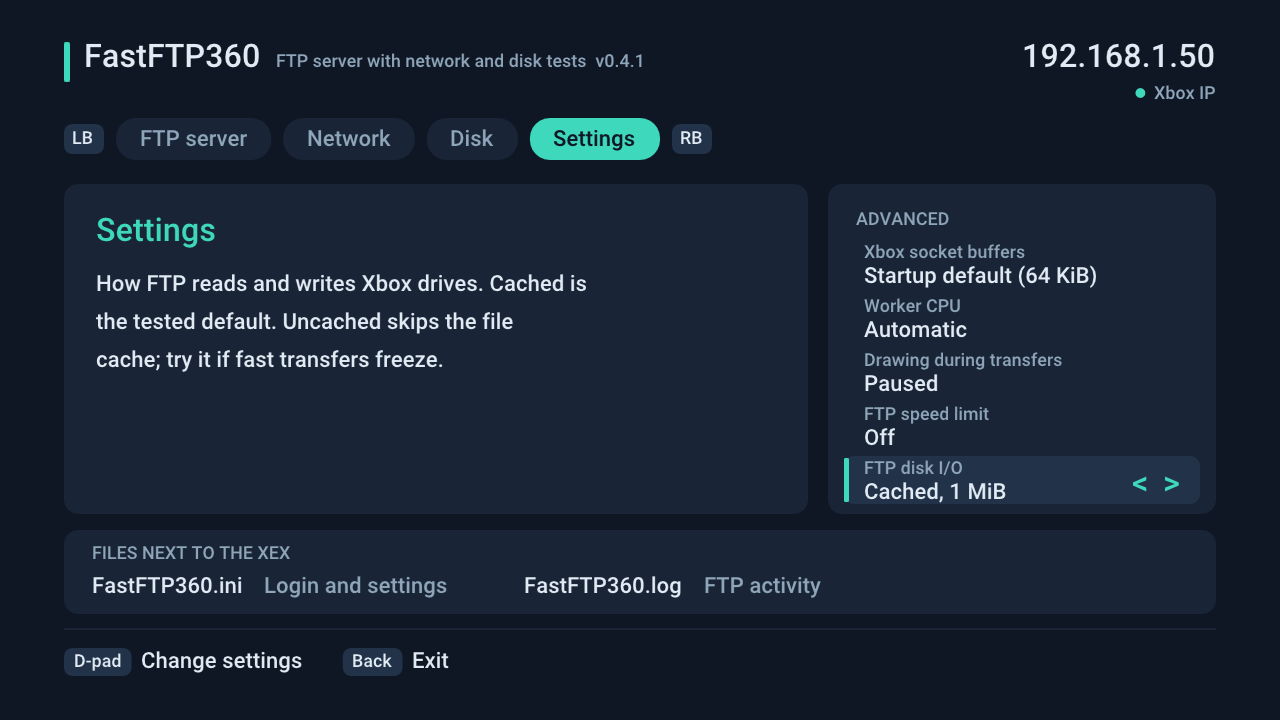
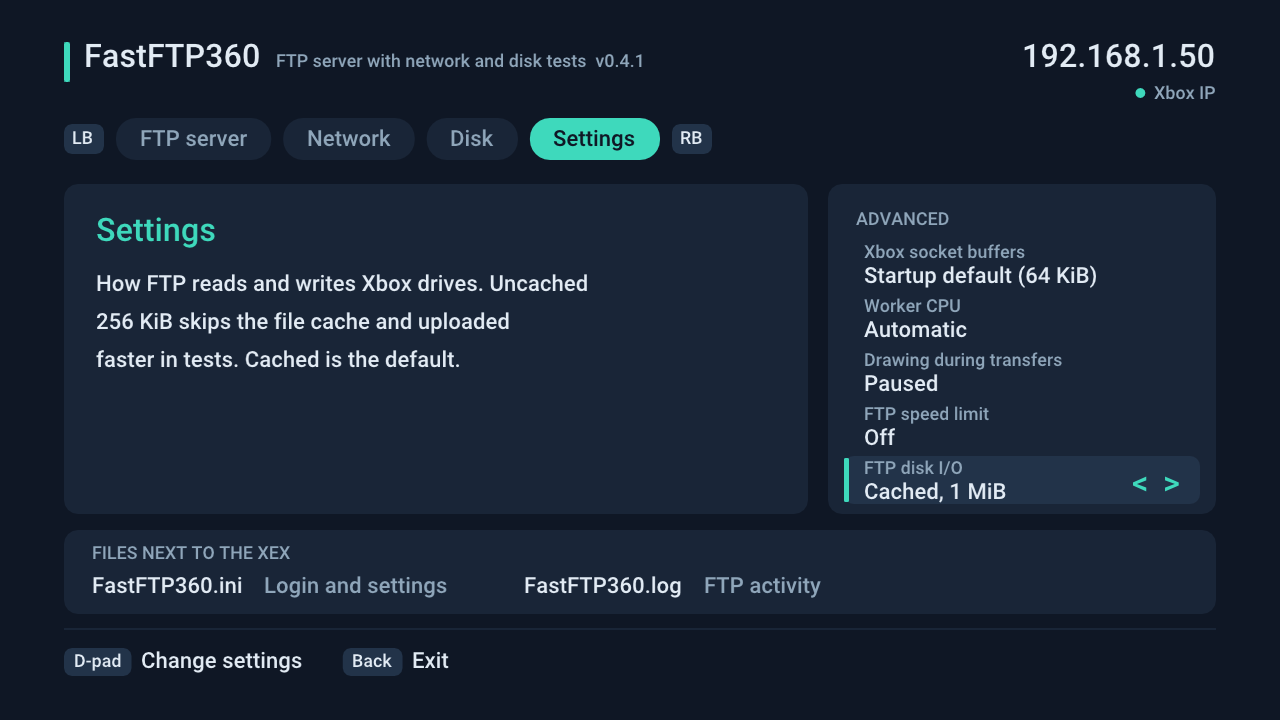
Speed limit for downloads only
On the stock 20 GB console every full-speed download froze while full-speed
uploads went through, so the FTP speed limit gets Downloads 12 and 16 MiB/s:
only RETR is paced, uploads keep full speed. ServeFtp takes downloadsOnly;
FastFTP360.ini stores speed=downloads-12|downloads-16 (old numeric values
still load). Two new checks in tests/ftp.py (58 in all). The changelog,
README and disk I/O help record the console results.

Claude-Session: https://claude.ai/code/session_01GgHdzzbekHu92nQPqVcQGn

Changed region(s): [[0.0625, 0.4278, 0.4062, 0.4583], [0.0625, 0.4889, 0.375, 0.5194], [0.375, 0.3667, 0.4688, 0.3972]]

diff --git a/shared/ftp.cpp b/shared/ftp.cpp
@@ -85,7 +85,7 @@ void EndPump(Pump& p) {
 }
 
 struct Shared {
-    const FtpRoot* roots; int rootCount; DWORD address; int socketBuffer,speedLimit,diskBlock;
+    const FtpRoot* roots; int rootCount; DWORD address; int socketBuffer,speedLimit,diskBlock; bool downloadsOnly;
     const char* user; const char* password;
     const FtpObserver* observer;
     volatile LONG active,finished;
@@ -139,16 +139,18 @@ private:
     // (the Xbox pauses drawing) before the first byte moves.
     void Starting(const char* operation,const char* name,const char* path) {
         const char* kind=operation[0]=='S' ? "Upload" : "Download";
-        if(shared_.speedLimit) Log("%s %s started, limited to %d MiB/s",kind,path,shared_.speedLimit);
+        if(Limit(operation)) Log("%s %s started, limited to %d MiB/s",kind,path,Limit(operation));
         else Log("%s %s started",kind,path);
         if(shared_.observer->starting) shared_.observer->starting(shared_.observer->context,operation,name);
     }
-    // Holds all transfers together to the speed limit. Each piece of data
-    // books the time it takes at that rate after the bookings before it, and
-    // the session waits until its booking ends. A pause of more than 0.1 s
+    // The speed limit for a STOR or RETR; 0 is none.
+    int Limit(const char* operation) const { return operation[0]=='S' && shared_.downloadsOnly ? 0 : shared_.speedLimit; }
+    // Holds all limited transfers together to the speed limit. Each piece of
+    // data books the time it takes at that rate after the bookings before it,
+    // and the session waits until its booking ends. A pause of more than 0.1 s
     // earns no credit, so a new transfer cannot burst. False if stopped.
-    bool Pace(int count) {
-        if(!shared_.speedLimit) return true;
+    bool Pace(const char* operation,int count) {
+        if(!Limit(operation)) return true;
         EnterCriticalSection(&shared_.paceLock);
         const double now=Now();
         if(shared_.paceNext<now-0.1) shared_.paceNext=now;
@@ -481,7 +483,7 @@ void Session::Retrieve(const char* argument) {
             while(ok && bytes<size) {
                 int count=int(size-bytes<U64(Chunk) ? size-bytes : Chunk);
                 ok=SendAll(data,reinterpret_cast<const char*>(block),count,true);
-                if(ok) { bytes+=count; ok=Pace(count); }
+                if(ok) { bytes+=count; ok=Pace("RETR",count); }
                 if(Now()-update>=0.25) { update=Now(); Progress("RETR",name,bytes,update-begin,false,true); }
             }
             free(block);
@@ -500,7 +502,7 @@ void Session::Retrieve(const char* argument) {
             for(DWORD left=pump.length[i];ok && left;) {
                 const int count=int(left>DWORD(Chunk) ? DWORD(Chunk) : left);
                 ok=SendAll(data,piece,count,true);
-                if(ok) { bytes+=count; piece+=count; left-=count; ok=Pace(count); }
+                if(ok) { bytes+=count; piece+=count; left-=count; ok=Pace("RETR",count); }
             }
             SetEvent(pump.freed[i]); pump.next^=1;
             if(Now()-update>=0.25) { update=Now(); Progress("RETR",name,bytes,update-begin,false,true); }
@@ -575,7 +577,7 @@ void Session::Store(const char* argument) {
         if(!sink) ok=false;
         for(;ok;) {
             int got=Receive(data,sink,Chunk*4,DataIdleSeconds,true);
-            if(got<0) ok=false; else if(!got) break; else { bytes+=got; ok=Pace(got); }
+            if(got<0) ok=false; else if(!got) break; else { bytes+=got; ok=Pace("STOR",got); }
             if(Now()-update>=0.25) { update=Now(); Progress("STOR",name,bytes,update-begin,false,true); }
         }
         free(sink);
@@ -595,7 +597,7 @@ void Session::Store(const char* argument) {
                 if(got<0) { ok=false; break; }
                 if(!got) { eof=true; break; }
                 filled+=got; bytes+=got;
-                if(!Pace(got)) { ok=false; break; }
+                if(!Pace("STOR",got)) { ok=false; break; }
                 if(Now()-update>=0.25) { update=Now(); Progress("STOR",name,bytes,update-begin,false,true); }
             }
             if(!ok) break;
@@ -733,9 +735,9 @@ DWORD WINAPI SessionThread(void* context) {
 }
 
 bool ServeFtp(SOCKET listener,const FtpRoot* roots,int rootCount,DWORD address,int socketBuffer,
-              int speedLimit,int processor,int diskBlock,int maxSessions,const char* user,const char* password,
+              int speedLimit,bool downloadsOnly,int processor,int diskBlock,int maxSessions,const char* user,const char* password,
               const FtpObserver& observer,char* error,size_t capacity) {
-    Shared shared={roots,rootCount,address,socketBuffer,speedLimit,diskBlock,user,password ? password : "",&observer,0,0};
+    Shared shared={roots,rootCount,address,socketBuffer,speedLimit,diskBlock,downloadsOnly,user,password ? password : "",&observer,0,0};
     InitializeCriticalSection(&shared.paceLock); shared.paceNext=0;
     HANDLE threads[64]={0}; int started=0; bool ok=true;
     while(!(observer.cancelled && observer.cancelled(observer.context))) {

diff --git a/xbox/main.cpp b/xbox/main.cpp
@@ -25,9 +25,13 @@ static int BufferChoice=0;
 // choose, otherwise 1-6 selects hardware thread 0-5. USB completion DPCs run on
 // hardware thread 2.
 static int CpuChoice=0;
-// FTP speed limit for all transfers together in MiB/s; 0 is no limit. One
-// console with a stock 20 GB drive froze at 20+ MiB/s but not at 14.
-static const int SpeedChoices[]={0,12,16,20};
+// FTP speed limit in MiB/s for all transfers together, or only for downloads
+// (the Xbox sending); 0 is no limit. One console with a stock 20 GB drive froze
+// at 20+ MiB/s but not at 16, and later only during full-speed downloads.
+// key is the FastFTP360.ini value.
+struct SpeedLimit { int limit; bool downloadsOnly; const char* key; const char* label; };
+static const SpeedLimit SpeedChoices[]={{0,false,"0","Off"},{12,false,"12","12 MiB/s"},{16,false,"16","16 MiB/s"},
+    {20,false,"20","20 MiB/s"},{12,true,"downloads-12","Downloads 12 MiB/s"},{16,true,"downloads-16","Downloads 16 MiB/s"}};
 static int SpeedChoice=0;
 // How FTP reads and writes Xbox files: through the file cache, or uncached in
 // fixed blocks (ServeFtp's diskBlock). key is the FastFTP360.ini value.
@@ -153,8 +157,8 @@ static void LoadSettings() {
         if(nb::FindSetting(text,"drawing",value,sizeof(value))) {
             if(!_stricmp(value,"live")) DrawDuringTransfers=true; else if(!_stricmp(value,"paused")) DrawDuringTransfers=false;
         }
-        if(nb::FindSetting(text,"speed",value,sizeof(value))
-            && (choice=ChoiceOf(SpeedChoices,sizeof(SpeedChoices)/sizeof(SpeedChoices[0]),value))>=0) SpeedChoice=choice;
+        if(nb::FindSetting(text,"speed",value,sizeof(value)))
+            for(int i=0;i<int(sizeof(SpeedChoices)/sizeof(SpeedChoices[0]));++i) if(!_stricmp(value,SpeedChoices[i].key)) SpeedChoice=i;
         if(nb::FindSetting(text,"disk",value,sizeof(value)))
             for(int i=0;i<int(sizeof(DiskIoChoices)/sizeof(DiskIoChoices[0]));++i) if(!_stricmp(value,DiskIoChoices[i].key)) DiskIoChoice=i;
     }
@@ -164,8 +168,8 @@ static bool SaveSettings() {
     char text[320],cpu[8]; nb::FormatFtpLogin(text,sizeof(text),FtpLoginRequired,FtpUser,FtpPassword);
     if(CpuChoice) _snprintf_s(cpu,sizeof(cpu),_TRUNCATE,"%d",CpuChoice-1); else strcpy_s(cpu,"auto");
     const size_t login=strlen(text);
-    _snprintf_s(text+login,sizeof(text)-login,_TRUNCATE,"buffers=%d\r\ncpu=%s\r\ndrawing=%s\r\nspeed=%d\r\ndisk=%s\r\n",
-        BufferChoices[BufferChoice],cpu,DrawDuringTransfers ? "live" : "paused",SpeedChoices[SpeedChoice],DiskIoChoices[DiskIoChoice].key);
+    _snprintf_s(text+login,sizeof(text)-login,_TRUNCATE,"buffers=%d\r\ncpu=%s\r\ndrawing=%s\r\nspeed=%s\r\ndisk=%s\r\n",
+        BufferChoices[BufferChoice],cpu,DrawDuringTransfers ? "live" : "paused",SpeedChoices[SpeedChoice].key,DiskIoChoices[DiskIoChoice].key);
     HANDLE file=CreateFile(SettingsFile,GENERIC_WRITE,0,NULL,CREATE_ALWAYS,FILE_ATTRIBUTE_NORMAL,NULL);
     if(file==INVALID_HANDLE_VALUE) return false;
     DWORD written=0; bool ok=WriteFile(file,text,DWORD(strlen(text)),&written,NULL) && written==strlen(text);
@@ -194,8 +198,7 @@ static void DescribeSettings() {
     if(BufferChoices[BufferChoice]) _snprintf_s(State.buffers,sizeof(State.buffers),_TRUNCATE,"%d KiB",BufferChoices[BufferChoice]/1024);
     else strcpy_s(State.buffers,"Startup default (64 KiB)");
     if(CpuChoice) _snprintf_s(State.cpu,sizeof(State.cpu),_TRUNCATE,"Hardware thread %d",CpuChoice-1); else strcpy_s(State.cpu,"Automatic");
-    if(SpeedChoices[SpeedChoice]) _snprintf_s(State.speed,sizeof(State.speed),_TRUNCATE,"%d MiB/s",SpeedChoices[SpeedChoice]);
-    else strcpy_s(State.speed,"Off");
+    strcpy_s(State.speed,SpeedChoices[SpeedChoice].label);
     strcpy_s(State.diskIo,DiskIoChoices[DiskIoChoice].label);
     strcpy_s(State.diskTarget,DiskTargets[DiskChoice].name);
     if(DiskBlocks[DiskBlockChoice]>=1048576) _snprintf_s(State.diskBlock,sizeof(State.diskBlock),_TRUNCATE,"%u MiB",DiskBlocks[DiskBlockChoice]/1048576);
@@ -477,8 +480,9 @@ static DWORD WINAPI FtpThread(void*) {
         _snprintf_s(line,sizeof(line),_TRUNCATE,"FTP server started on %u.%u.%u.%u port 21, login %s, speed limit %s, worker CPU %s, disk I/O %s. %s",
             ip[0],ip[1],ip[2],ip[3],FtpLoginRequired ? FtpUser : "off",State.speed,State.cpu,State.diskIo,folders);
         WriteLog(line);
-        if(!nb::ServeFtp(listener,roots,count,xnaddr.ina.s_addr,BufferChoices[BufferChoice],SpeedChoices[SpeedChoice],CpuChoice-1,
-            DiskIoChoices[DiskIoChoice].block,0,FtpLoginRequired ? FtpUser : NULL,FtpPassword,observer,error,sizeof(error))) ready=false;
+        if(!nb::ServeFtp(listener,roots,count,xnaddr.ina.s_addr,BufferChoices[BufferChoice],SpeedChoices[SpeedChoice].limit,
+            SpeedChoices[SpeedChoice].downloadsOnly,CpuChoice-1,DiskIoChoices[DiskIoChoice].block,0,
+            FtpLoginRequired ? FtpUser : NULL,FtpPassword,observer,error,sizeof(error))) ready=false;
     }
     if(listener!=INVALID_SOCKET) closesocket(listener);
     for(int i=0;i<FtpDriveCount;++i) if(linked[i]) UnlinkDrive(FtpLinks[i]);

diff --git a/tests/ftp.py b/tests/ftp.py
@@ -47,9 +47,10 @@ def pattern(seed, count):
 
 
 @contextlib.contextmanager
-def server(folder, sessions=1, credentials=(), speed=0, disk=0):
+def server(folder, sessions=1, credentials=(), speed=0, download_speed=0, disk=0):
     port = free_port()
-    limit = (["--speed", str(speed)] if speed else []) + (["--disk", str(disk)] if disk else [])
+    limit = ((["--speed", str(speed)] if speed else []) + (["--download-speed", str(download_speed)] if download_speed else [])
+             + (["--disk", str(disk)] if disk else []))
     process = subprocess.Popen([str(HOST), *limit, str(port), str(folder), str(sessions), *credentials],
                                stdout=subprocess.PIPE, stderr=subprocess.STDOUT, text=True, **WINDOWLESS)
     try:
@@ -168,6 +169,23 @@ with tempfile.TemporaryDirectory() as temp:
         output = host.communicate(timeout=10)[0]
         check("the limit holds two parallel uploads together, 8 MiB each in about 2 s", 1.9 <= both < 6 and output.count("DONE STOR parallel") == 2)
         check("the log says when a limited transfer starts", "Upload /NULL/limited.bin started, limited to 8 MiB/s" in output)
+
+    with server(served, download_speed=8) as (port, host):
+        ftp = login(port)
+        begin = time.time()
+        ftp.storbinary("STOR /NULL/fast.bin", io.BytesIO(bytes(16 * MIB)), blocksize=MIB)
+        up = time.time() - begin
+        begin = time.time()
+        limited = bytearray()
+        ftp.retrbinary("RETR /NULL/16MB.bin", limited.extend)
+        down = time.time() - begin
+        ftp.quit()
+        lines = host.communicate(timeout=10)[0].splitlines()
+        check("a downloads-only limit of 8 MiB/s holds a 16 MiB download to about 2 s and leaves uploads alone",
+              up < 1.5 and 1.9 <= down < 6 and len(limited) == 16 * MIB)
+        check("the log shows the limit on downloads only",
+              any(line.endswith("  Upload /NULL/fast.bin started") for line in lines)
+              and any(line.endswith("  Download /NULL/16MB.bin started, limited to 8 MiB/s") for line in lines))
 
     # Uncached disk I/O writes whole blocks and the shorter last one through the
     # cache. Windows, and the Linux shim, refuse unaligned uncached reads and writes.

diff --git a/tests/ftp_host.cpp b/tests/ftp_host.cpp
@@ -1,6 +1,7 @@
 // SPDX-License-Identifier: MIT
 // Runs the SAME FTP server source on Windows loopback for protocol tests.
-// Usage: ftp-host [--speed <MiB/s>] [--disk <uncached block bytes>] <port> <folder served as /HDD> <sessions> [user password]
+// Usage: ftp-host [--speed <MiB/s> | --download-speed <MiB/s>] [--disk <uncached block bytes>]
+//                 <port> <folder served as /HDD> <sessions> [user password]
 //        ftp-host --login-file <path>   prints the login the Xbox would read from it
 //        ftp-host --setting <path> <key>   prints that setting's value from the file
 #include "../shared/ftp.h"
@@ -33,9 +34,10 @@ int main(int argc,char** argv) {
         if(nb::FindSetting(text,argv[3],value,sizeof(value))) printf("SETTING [%s]\n",value); else printf("NO SETTING\n");
         return 0;
     }
-    int speed=0,disk=0;
+    int speed=0,disk=0; bool downloadsOnly=false;
     while(argc>=3 && !strncmp(argv[1],"--",2)) {
         if(!strcmp(argv[1],"--speed")) speed=atoi(argv[2]);
+        else if(!strcmp(argv[1],"--download-speed")) { speed=atoi(argv[2]); downloadsOnly=true; }
         else if(!strcmp(argv[1],"--disk")) disk=atoi(argv[2]);
         else return 1;
         argv+=2; argc-=2;
@@ -53,7 +55,7 @@ int main(int argc,char** argv) {
     printf("READY %s\n",argv[1]); fflush(stdout);
     Started=nb::Now();
     // No fallback address: passive replies must use the address the client reached.
-    bool ok=nb::ServeFtp(listener,roots,2,0,0,speed,-1,disk,atoi(argv[3]),argc>5 ? argv[4] : NULL,argc>5 ? argv[5] : NULL,observer,error,sizeof(error));
+    bool ok=nb::ServeFtp(listener,roots,2,0,0,speed,downloadsOnly,-1,disk,atoi(argv[3]),argc>5 ? argv[4] : NULL,argc>5 ? argv[5] : NULL,observer,error,sizeof(error));
     printf(ok ? "STOPPED\n" : "ERROR %s\n",error);
     closesocket(listener); WSACleanup(); return ok ? 0 : 3;
 }

diff --git a/shared/ftp.h b/shared/ftp.h
@@ -23,14 +23,15 @@ struct FtpObserver {
 // Serves passive-mode FTP on an already listening socket until cancelled, or
 // until maxSessions control connections have ended when maxSessions is nonzero.
 // address is the IPv4 address (network order) announced for passive data.
-// speedLimit caps all uploads and downloads together in MiB/s (0: no limit). processor
-// is the Xbox hardware thread for session threads (-1: the kernel chooses).
+// speedLimit caps all uploads and downloads together in MiB/s (0: no limit), or
+// with downloadsOnly only the downloads. processor is the Xbox hardware thread
+// for session threads (-1: the kernel chooses).
 // diskBlock 0 reads and writes files through the file cache in FtpBuffer
 // blocks; otherwise the cache is bypassed and the drive gets requests of
 // diskBlock bytes, a multiple of 64 KiB up to FtpBuffer.
 // With a NULL user any user name and password log in; otherwise both must match.
 bool ServeFtp(SOCKET listener, const FtpRoot* roots, int rootCount, DWORD address, int socketBuffer,
-              int speedLimit, int processor, int diskBlock, int maxSessions, const char* user, const char* password,
+              int speedLimit, bool downloadsOnly, int processor, int diskBlock, int maxSessions, const char* user, const char* password,
               const FtpObserver& observer, char* error, size_t capacity);
 
 // The settings file next to the XEX holds "key=value" lines: the FTP login as

diff --git a/shared/ui.cpp b/shared/ui.cpp
@@ -93,8 +93,8 @@ static void Status(const UiState& s,float x,float y,float w,float h) {
             {"Socket buffers for FTP and the network test.","Bigger is not always faster, and the Xbox may","refuse them. Startup default suits most people."},
             {"The hardware thread for network test streams","and FTP sessions. USB network work runs on","thread 2. Automatic suits most people."},
             {"Paused holds the screen while data moves.","Live drawing during Xbox sends has crashed the","console before. Keep Paused unless testing it."},
-            {"Caps FTP uploads and downloads together.","Try 12 or 16 if the console freezes during","fast transfers. Off is fastest."},
-            {"How FTP reads and writes Xbox drives. Cached is","the tested default. Uncached skips the file","cache; try it if fast transfers freeze."}};
+            {"Caps FTP transfers, or only downloads (Xbox to","PC). Try 16 if the console freezes during fast","transfers. Off is fastest."},
+            {"How FTP reads and writes Xbox drives. Uncached","256 KiB skips the file cache and uploaded","faster in tests. Cached is the default."}};
         for(int i=0;i<3;++i) lines[i]=help[s.focus>=0 && s.focus<5 ? s.focus : 0][i];
     } else if(s.tab==TabFtp) {
         static const char* names[]={"FTP server","FTP server on","Receiving upload","Sending download"};

diff --git a/CHANGELOG.md b/CHANGELOG.md
@@ -10,7 +10,8 @@
 - `tests/ftp.py` runs on Linux and macOS too, with `tests/ftp_posix.h`; 16 new checks for the fixes above (45 in all).
 - **FTP speed limit** on the Settings tab: Off (default), 12, 16 or 20 MiB/s for all FTP transfers together. One console with the stock 20 GB drive froze during FTP transfers at 20 MiB/s and more, with any driver build or plugin set, but never at 14 MiB/s. On that console, 4 GiB of uploads and downloads at a 16 MiB/s limit ran without a freeze; with no limit it froze again, even with the FTP threads on hardware thread 4.
 - **Settings are saved.** The Settings tab's choices are kept in `FastFTP360.ini` with the login, so a speed limit stays set between launches.
-- **FTP disk I/O** on the Settings tab: Cached, 1 MiB (default), Uncached, 1 MiB or Uncached, 256 KiB. Uncached transfers skip the Xbox file cache and read and write whole blocks; an upload's last, shorter block goes through the cache. To test whether the freeze on the stock 20 GB console comes from the file cache. Four new checks in `tests/ftp.py`, which on Linux now refuses unaligned uncached reads and writes the way Windows does (56 in all). Not yet tested on a console.
+- **FTP disk I/O** on the Settings tab: Cached, 1 MiB (default), Uncached, 1 MiB or Uncached, 256 KiB. Uncached transfers skip the Xbox file cache and read and write whole blocks; an upload's last, shorter block goes through the cache. To test whether the freeze on the stock 20 GB console comes from the file cache. Four new checks in `tests/ftp.py`, which on Linux now refuses unaligned uncached reads and writes the way Windows does. On that console the console checks pass with both uncached choices. Uncached, 256 KiB uploaded 1 GiB at 26.5 MiB/s, against about 22 cached. Full-speed downloads still froze it.
+- **Speed limit for downloads only:** Downloads 12 or 16 MiB/s caps only transfers from the Xbox, so uploads keep full speed. On the stock 20 GB console every full-speed download froze, while full-speed uploads went through. Two new checks (58 in all).
 - **Drawing pauses before FTP data moves.** With Drawing during transfers set to Paused, each transfer now waits until the screen has drawn its last frame and the GPU is idle, as the network test does. Before, drawing went on for the first quarter second of every transfer, through short transfers, and again whenever one of two parallel transfers finished.
 - The **Worker CPU** setting also places FTP session threads, so they can be kept off hardware thread 2, where USB completions run.
 - The log records when each upload and download **starts**, not only when it ends, and the server start line includes the speed limit and worker CPU.

diff --git a/README.md b/README.md
@@ -157,10 +157,10 @@ The **Settings** tab holds options most people never need. While stopped, **D-pa
 | Xbox socket buffers | Startup default (64 KiB), 128 KiB, 256 KiB | FTP and network test. The Xbox may refuse bigger buffers, and bigger is not always faster. |
 | Worker CPU | Automatic, hardware thread 0 to 5 | Network test streams and FTP sessions. USB network work runs on hardware thread 2. |
 | Drawing during transfers | Paused (default), Live | FTP and network test. Keep **Paused**: live drawing during Xbox sends has crashed the console in testing. With Paused, an FTP transfer waits until the screen has stopped drawing before any data moves. |
-| FTP speed limit | Off (default), 12, 16, 20 MiB/s | All FTP uploads and downloads together. Try 12 or 16 if the console freezes during fast transfers: one console with the stock 20 GB drive froze at 20 MiB/s and more, but moved 4 GiB at 16 without a freeze. |
-| FTP disk I/O | Cached, 1 MiB (default); Uncached, 1 MiB; Uncached, 256 KiB | How FTP reads and writes Xbox drives. Uncached skips the Xbox file cache and gives the drive requests of a fixed size. It is an experiment for consoles that freeze during fast transfers and hasn't been tested on a console yet. |
+| FTP speed limit | Off (default), 12, 16, 20 MiB/s, or Downloads 12 or 16 MiB/s | All FTP uploads and downloads together, or only downloads (Xbox to PC). Try 16 if the console freezes during fast transfers. One console with the stock 20 GB drive froze at 20 MiB/s and more, but moved 4 GiB at 16 without a freeze. Its full-speed uploads went through; only its full-speed downloads froze. |
+| FTP disk I/O | Cached, 1 MiB (default); Uncached, 1 MiB; Uncached, 256 KiB | How FTP reads and writes Xbox drives. Uncached skips the Xbox file cache and gives the drive requests of a fixed size. On one console, Uncached, 256 KiB raised uploads from about 22 to 26.5 MiB/s. It did not stop that console's freezes. |
 
-In `FastFTP360.ini` these are `buffers` (bytes, 0 for the startup default), `cpu` (`auto` or a hardware thread from 0 to 5), `drawing` (`paused` or `live`), `speed` (MiB/s, 0 for off) and `disk` (`cached`, `uncached-1m` or `uncached-256k`). A missing or unknown value keeps the default.
+In `FastFTP360.ini` these are `buffers` (bytes, 0 for the startup default), `cpu` (`auto` or a hardware thread from 0 to 5), `drawing` (`paused` or `live`), `speed` (MiB/s, 0 for off, or `downloads-12` and `downloads-16`) and `disk` (`cached`, `uncached-1m` or `uncached-256k`). A missing or unknown value keeps the default.
 
 ## Why it is faster
 
